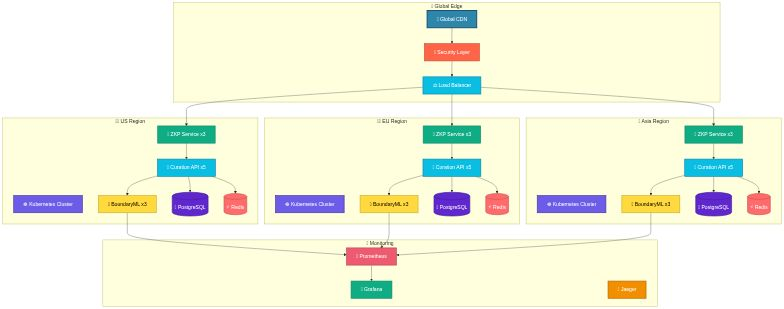
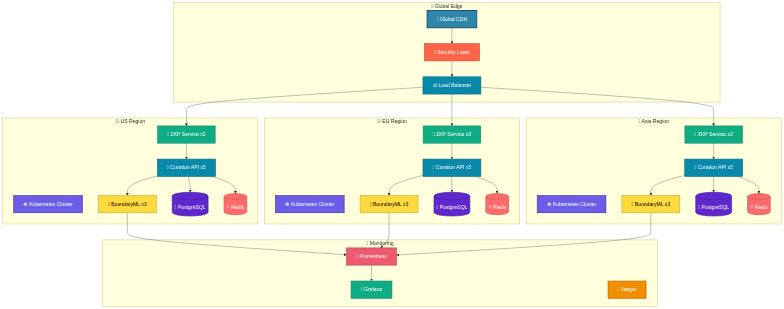
Fix text contrast issues in architecture diagrams
- Darkened light blue/turquoise backgrounds for better text readability
- Changed #0ABDE3 to #0888AB (darker blue) for better contrast
- Changed #00D2D3 to #009FA0 (darker turquoise) for white text visibility
- Fixed contrast in Content Filter, Authentication, Metadata API nodes
- Fixed GDPR, Load Balancer, and all regional API services
- Regenerated all affected diagrams with improved text visibility
- All white text now has sufficient contrast on colored backgrounds

diff --git a/docs/architecture/AI_Curation_Engine_Architecture.md b/docs/architecture/AI_Curation_Engine_Architecture.md
@@ -90,14 +90,14 @@ graph TB
     style UC fill:#A23B72,stroke:#6F2550,stroke-width:2px,color:#fff
     style UP fill:#F18F01,stroke:#B86700,stroke-width:2px,color:#fff
     style CA fill:#6C5CE7,stroke:#4834A3,stroke-width:2px,color:#fff
-    style CF fill:#00D2D3,stroke:#009FA0,stroke-width:2px,color:#fff
+    style CF fill:#009FA0,stroke:#007A7B,stroke-width:2px,color:#fff
     style DO fill:#FF6B6B,stroke:#CC5555,stroke-width:2px,color:#fff
     style BML fill:#FFD93D,stroke:#CCAE31,stroke-width:3px,color:#000
     style ZKP fill:#10AC84,stroke:#0D8A6A,stroke-width:2px,color:#fff
     style BIO fill:#5F27CD,stroke:#44219D,stroke-width:2px,color:#fff
-    style AUTH fill:#00D2D3,stroke:#009FA0,stroke-width:2px,color:#fff
+    style AUTH fill:#009FA0,stroke:#007A7B,stroke-width:2px,color:#fff
     style CAPI fill:#EE5A6F,stroke:#BB4757,stroke-width:2px,color:#fff
-    style META fill:#0ABDE3,stroke:#0888AB,stroke-width:2px,color:#fff
+    style META fill:#0888AB,stroke:#066A7A,stroke-width:2px,color:#fff
     style ANAL fill:#5F27CD,stroke:#44219D,stroke-width:2px,color:#fff
     style COMP fill:#FF6348,stroke:#CC4E3A,stroke-width:2px,color:#fff
     style ID fill:#10AC84,stroke:#0D8A6A,stroke-width:2px,color:#fff
@@ -386,7 +386,7 @@ flowchart TD
     style OUTPUT fill:#F0FDF4,stroke:#10AC84,stroke-width:3px
     
     style TXT fill:#2E86AB,stroke:#1A4D6B,stroke-width:2px,color:#fff
-    style VID fill:#0ABDE3,stroke:#0888AB,stroke-width:2px,color:#fff
+    style VID fill:#0888AB,stroke:#066A7A,stroke-width:2px,color:#fff
     style IMG fill:#5F27CD,stroke:#44219D,stroke-width:2px,color:#fff
     style DOC fill:#6C5CE7,stroke:#4834A3,stroke-width:2px,color:#fff
     style SAFE fill:#FF6B6B,stroke:#CC5555,stroke-width:2px,color:#fff
@@ -796,7 +796,7 @@ graph TB
     style VIOLENCE fill:#FF6348,stroke:#CC4E3A,stroke-width:2px,color:#fff
     style EDUCATIONAL fill:#10AC84,stroke:#0D8A6A,stroke-width:2px,color:#fff
     style VIEWPOINT fill:#5F27CD,stroke:#44219D,stroke-width:2px,color:#fff
-    style SOURCE fill:#0ABDE3,stroke:#0888AB,stroke-width:2px,color:#fff
+    style SOURCE fill:#0888AB,stroke:#066A7A,stroke-width:2px,color:#fff
     style ECHO fill:#FFD93D,stroke:#CCAE31,stroke-width:2px,color:#000
     style COMBINE fill:#6C5CE7,stroke:#4834A3,stroke-width:2px,color:#fff
     style SCORE fill:#EE5A6F,stroke:#BB4757,stroke-width:2px,color:#fff
@@ -1280,7 +1280,7 @@ Reporter]
     VALIDATOR --> REPORTER
     
     %% Professional compliance color scheme
-    style GDPR fill:#0ABDE3,stroke:#0888AB,stroke-width:2px,color:#fff
+    style GDPR fill:#0888AB,stroke:#066A7A,stroke-width:2px,color:#fff
     style DSA fill:#2E86AB,stroke:#1A4D6B,stroke-width:2px,color:#fff
     style COPPA fill:#FF6B6B,stroke:#CC5555,stroke-width:2px,color:#fff
     style STATE fill:#EE5A6F,stroke:#BB4757,stroke-width:2px,color:#fff
@@ -1722,7 +1722,7 @@ graph TB
     style KEYS fill:#5F27CD,stroke:#44219D,stroke-width:2px,color:#fff
     style PROOF fill:#10AC84,stroke:#0D8A6A,stroke-width:2px,color:#fff
     style NETWORK fill:#2E86AB,stroke:#1A4D6B,stroke-width:2px,color:#fff
-    style CONTAINER fill:#0ABDE3,stroke:#0888AB,stroke-width:2px,color:#fff
+    style CONTAINER fill:#0888AB,stroke:#066A7A,stroke-width:2px,color:#fff
     style MONITOR fill:#EE5A6F,stroke:#BB4757,stroke-width:2px,color:#fff
     style ENCRYPT fill:#FF6348,stroke:#CC4E3A,stroke-width:2px,color:#fff
     style PRIVACY fill:#10AC84,stroke:#0D8A6A,stroke-width:2px,color:#fff
@@ -1834,26 +1834,26 @@ graph TB
     
     %% Professional infrastructure color scheme
     style CDN fill:#2E86AB,stroke:#1A4D6B,stroke-width:3px,color:#fff
-    style LB fill:#0ABDE3,stroke:#0888AB,stroke-width:2px,color:#fff
+    style LB fill:#0888AB,stroke:#066A7A,stroke-width:2px,color:#fff
     style WAF fill:#FF6348,stroke:#CC4E3A,stroke-width:2px,color:#fff
     
     style US_K8S fill:#6C5CE7,stroke:#4834A3,stroke-width:2px,color:#fff
     style US_ZKP fill:#10AC84,stroke:#0D8A6A,stroke-width:2px,color:#fff
-    style US_API fill:#0ABDE3,stroke:#0888AB,stroke-width:2px,color:#fff
+    style US_API fill:#0888AB,stroke:#066A7A,stroke-width:2px,color:#fff
     style US_BML fill:#FFD93D,stroke:#CCAE31,stroke-width:2px,color:#000
     style US_DB fill:#5F27CD,stroke:#44219D,stroke-width:2px,color:#fff
     style US_CACHE fill:#FF6B6B,stroke:#CC5555,stroke-width:2px,color:#fff
     
     style EU_K8S fill:#6C5CE7,stroke:#4834A3,stroke-width:2px,color:#fff
     style EU_ZKP fill:#10AC84,stroke:#0D8A6A,stroke-width:2px,color:#fff
-    style EU_API fill:#0ABDE3,stroke:#0888AB,stroke-width:2px,color:#fff
+    style EU_API fill:#0888AB,stroke:#066A7A,stroke-width:2px,color:#fff
     style EU_BML fill:#FFD93D,stroke:#CCAE31,stroke-width:2px,color:#000
     style EU_DB fill:#5F27CD,stroke:#44219D,stroke-width:2px,color:#fff
     style EU_CACHE fill:#FF6B6B,stroke:#CC5555,stroke-width:2px,color:#fff
     
     style AS_K8S fill:#6C5CE7,stroke:#4834A3,stroke-width:2px,color:#fff
     style AS_ZKP fill:#10AC84,stroke:#0D8A6A,stroke-width:2px,color:#fff
-    style AS_API fill:#0ABDE3,stroke:#0888AB,stroke-width:2px,color:#fff
+    style AS_API fill:#0888AB,stroke:#066A7A,stroke-width:2px,color:#fff
     style AS_BML fill:#FFD93D,stroke:#CCAE31,stroke-width:2px,color:#000
     style AS_DB fill:#5F27CD,stroke:#44219D,stroke-width:2px,color:#fff
     style AS_CACHE fill:#FF6B6B,stroke:#CC5555,stroke-width:2px,color:#fff
